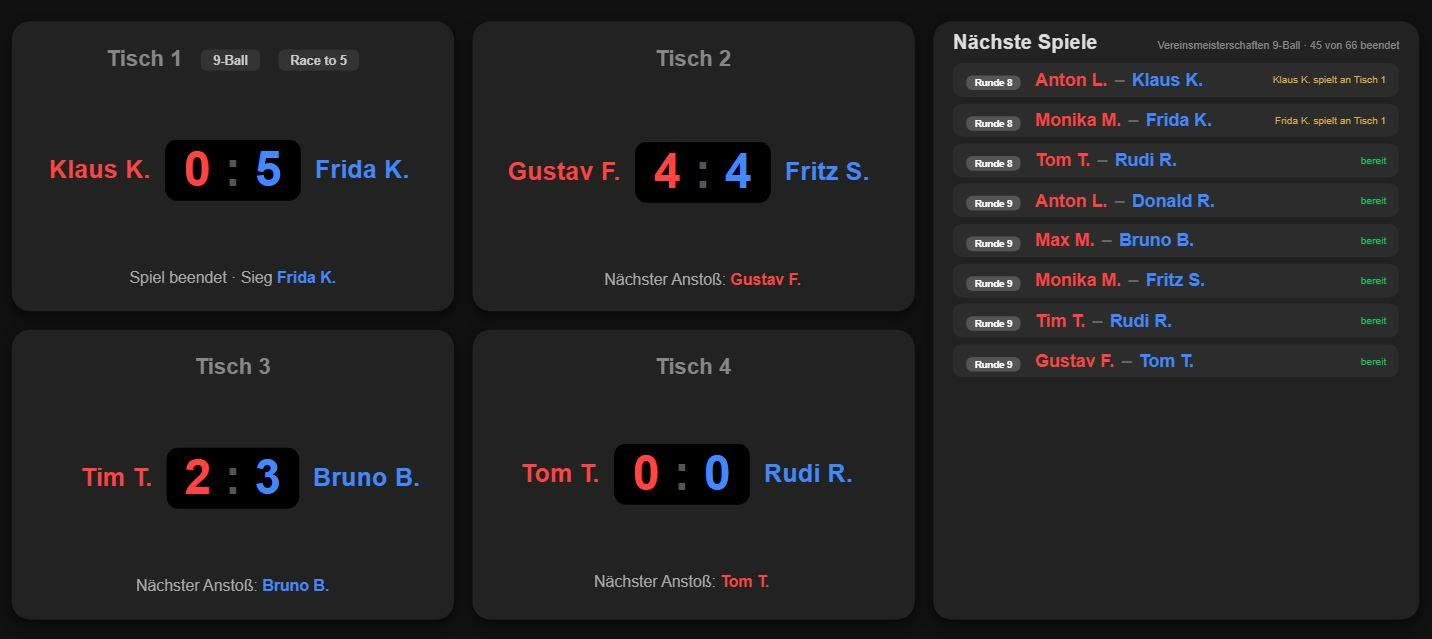
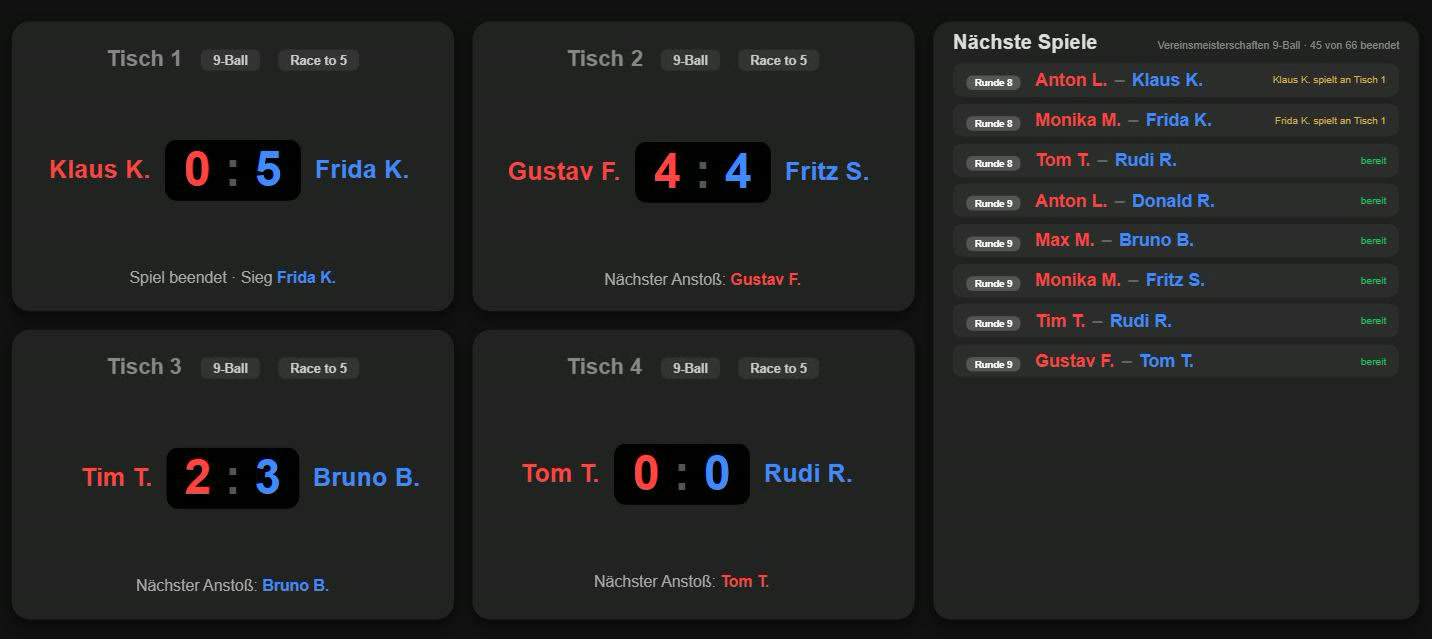
1.7.4: Live-Bild mit Spielart und Race bei allen Tischen

diff --git a/assets/seite.js b/assets/seite.js
@@ -1,6 +1,6 @@
 // CueDesk-Website – gemeinsames Skript aller Seiten.
 // VERSION ist die einzige Stelle, an der die Versionsnummer der Website steht.
-const VERSION = "1.7.3";
+const VERSION = "1.7.4";
 
 document.querySelectorAll("[data-version]").forEach((el) => {
   el.textContent = "Version " + VERSION;

diff --git a/CHANGELOG.md b/CHANGELOG.md
@@ -1,5 +1,9 @@
 # Änderungsprotokoll
 
+## 1.7.4 – 05.11.2026
+
+- Bild Live-/TV-Ansicht: „9-Ball“ und „Race to 5“ stehen jetzt bei allen vier Tischen, nicht nur bei Tisch 1
+
 ## 1.7.3 – 05.11.2026
 
 - Logo und Schriftzug „CueDesk“ oben links größer dargestellt
